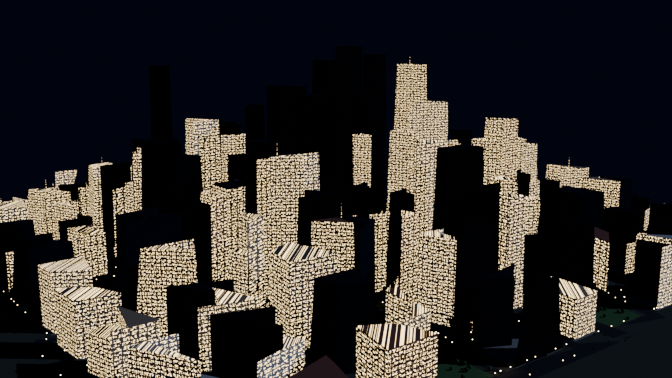
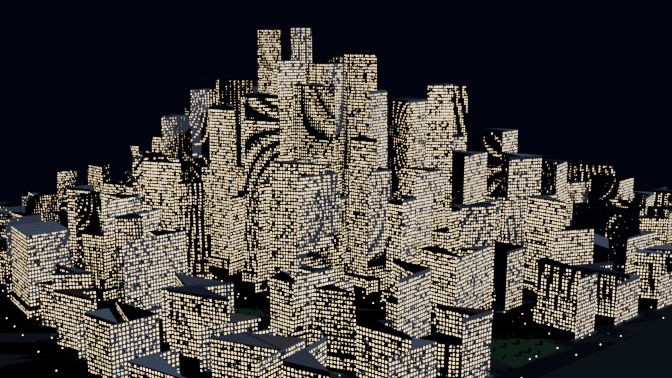
Add geometric windows & balconies, improve cars
- buildings: windows grid on all facades (separate mesh, glass material,
  random lit emission at night), balconies with slabs + railings on
  residential low-rises, windows also on tower podiums
- materials: new Window (night emission via noise), Balcony, Railing mats;
  drop procedural brick window mask (replaced by geometry)
- details: cars get wheels, headlights and taillights (emissive at night)
- config: car_count 120 -> 200

diff --git a/city/buildings.py b/city/buildings.py
@@ -7,6 +7,8 @@ from .config import Config
 from . import materials
 from .roads import SIDEWALK_Z
 
+FLOOR_H = 3.2
+
 
 def _quad_center(q):
     return (sum(p[0] for p in q) / 4.0, sum(p[1] for p in q) / 4.0)
@@ -80,12 +82,13 @@ def height_at(cfg, x, y, rng):
     return max(8.0, min(h, cfg.max_height * 1.35))
 
 
-def _add_tower(bm, quad, height, taper, top_scale, z0, facade_idx, rng):
-    """Extrude a quad footprint with optional taper; return top face center."""
-    verts = [bm.verts.new((x, y, z0)) for x, y in quad]
-    face = bm.faces.new(verts)
+def _add_tower(bm, quad, height, taper, top_scale, z0, facade_idx):
+    """Extrude a quad footprint with optional taper; return top center, base+top verts."""
+    base_verts = [bm.verts.new((x, y, z0)) for x, y in quad]
+    face = bm.faces.new(base_verts)
     result = bmesh.ops.extrude_face_region(bm, geom=[face])
     new_verts = [g for g in result["geom"] if isinstance(g, bmesh.types.BMVert)]
+    new_faces = [g for g in result["geom"] if isinstance(g, bmesh.types.BMFace)]
     bmesh.ops.translate(bm, vec=(0, 0, height), verts=new_verts)
     if taper < 0.999:
         cx = sum(v.co.x for v in new_verts) / len(new_verts)
@@ -93,28 +96,165 @@ def _add_tower(bm, quad, height, taper, top_scale, z0, facade_idx, rng):
         for v in new_verts:
             v.co.x = cx + (v.co.x - cx) * top_scale
             v.co.y = cy + (v.co.y - cy) * top_scale
-        return (cx, cy, z0 + height), new_verts
-    cx = sum(v.co.x for v in new_verts) / len(new_verts)
-    cy = sum(v.co.y for v in new_verts) / len(new_verts)
-    return (cx, cy, z0 + height), new_verts
+    else:
+        cx = sum(v.co.x for v in new_verts) / len(new_verts)
+        cy = sum(v.co.y for v in new_verts) / len(new_verts)
+    for f in new_faces:
+        f.material_index = facade_idx
+    return (cx, cy, z0 + height), base_verts, new_verts
 
 
-def build_building(bm, quad, height, rng, facade_idx, cfg=None):
+def _lerp(a, b, t):
+    return (a[0] + (b[0] - a[0]) * t, a[1] + (b[1] - a[1]) * t)
+
+
+class _Geom:
+    """Plain vertex/face lists for windows and balconies (fast from_pydata)."""
+
+    def __init__(self):
+        self.verts = []
+        self.faces = []
+        self.face_mats = []
+
+    def quad(self, corners, mat=0):
+        base = len(self.verts)
+        self.verts.extend(corners)
+        self.faces.append((base, base + 1, base + 2, base + 3))
+        self.face_mats.append(mat)
+
+    def box(self, bot4, h, mat=0):
+        top4 = [(p[0], p[1], p[2] + h) for p in bot4]
+        base = len(self.verts)
+        self.verts.extend(bot4)
+        self.verts.extend(top4)
+        b = [base + i for i in range(4)]
+        t = [base + 4 + i for i in range(4)]
+        self.faces.append(tuple(t[::-1]))
+        self.faces.append(tuple(b))
+        for i in range(4):
+            self.faces.append((b[i], b[(i + 1) % 4], t[(i + 1) % 4], t[i]))
+        self.face_mats.extend([mat] * 6)
+
+
+def _add_windows_balconies(win, balc, base_pts, top_pts, z0, height, rng,
+                           with_balconies):
+    """Windows grid + balconies on the four side walls of a prism."""
+    n_floors = max(1, int(height / FLOOR_H))
+    for i in range(4):
+        a0 = base_pts[i]
+        b0 = base_pts[(i + 1) % 4]
+        a1 = top_pts[i]
+        b1 = top_pts[(i + 1) % 4]
+        wall_len = ((b0[0] - a0[0]) ** 2 + (b0[1] - a0[1]) ** 2) ** 0.5
+        if wall_len < 2.5:
+            continue
+        cols = max(1, int(wall_len / 2.6))
+        # outward normal at wall base
+        dx, dy = b0[0] - a0[0], b0[1] - a0[1]
+        nx, ny = dy / wall_len, -dx / wall_len
+        cx = (a0[0] + b0[0]) / 2.0
+        cy = (a0[1] + b0[1]) / 2.0
+        if nx * cx + ny * cy < 0:
+            nx, ny = -nx, -ny
+
+        win_w, win_h = 1.4, 1.7
+        for f in range(n_floors):
+            z = z0 + f * FLOOR_H + FLOOR_H * 0.55
+            if z + win_h / 2.0 > z0 + height - 0.3:
+                break
+            t = (z - z0) / height if height > 1e-6 else 0.0
+            left = _lerp(a0, a1, t)
+            right = _lerp(b0, b1, t)
+            wdx, wdy = right[0] - left[0], right[1] - left[1]
+            wlen = (wdx * wdx + wdy * wdy) ** 0.5
+            if wlen < 1e-6:
+                continue
+            ux, uy = wdx / wlen, wdy / wlen
+            for c in range(cols):
+                tt = (c + 0.5) / cols
+                px = left[0] + wdx * tt + nx * 0.06
+                py = left[1] + wdy * tt + ny * 0.06
+                hw = min(win_w, wlen / cols * 0.7) / 2.0
+                hh = win_h / 2.0
+                win.quad([
+                    (px - ux * hw, py - uy * hw, z - hh),
+                    (px + ux * hw, py + uy * hw, z - hh),
+                    (px + ux * hw, py + uy * hw, z + hh),
+                    (px - ux * hw, py - uy * hw, z + hh),
+                ])
+
+        if not with_balconies:
+            continue
+        # balconies: protruding slab + railing on random floors
+        for f in range(2, n_floors):
+            if rng.random() > 0.4:
+                continue
+            z = z0 + f * FLOOR_H
+            if z + 1.2 > z0 + height - 0.3:
+                break
+            t = (z - z0) / height if height > 1e-6 else 0.0
+            left = _lerp(a0, a1, t)
+            right = _lerp(b0, b1, t)
+            wdx, wdy = right[0] - left[0], right[1] - left[1]
+            wlen = (wdx * wdx + wdy * wdy) ** 0.5
+            if wlen < 1e-6:
+                continue
+            ux, uy = wdx / wlen, wdy / wlen
+            bw = min(3.2, wlen * 0.8) / 2.0
+            depth = 1.1
+            mx = left[0] + wdx * 0.5
+            my = left[1] + wdy * 0.5
+            c0 = (mx - ux * bw, my - uy * bw)
+            c1 = (mx + ux * bw, my + uy * bw)
+            # slab
+            balc.box([
+                (c0[0], c0[1], z),
+                (c1[0], c1[1], z),
+                (c1[0] + nx * depth, c1[1] + ny * depth, z),
+                (c0[0] + nx * depth, c0[1] + ny * depth, z),
+            ], 0.15)
+            # railing: 3 quads around outer edge
+            rz0, rz1 = z + 0.15, z + 1.15
+            ro0 = (c0[0] + nx * depth, c0[1] + ny * depth)
+            ro1 = (c1[0] + nx * depth, c1[1] + ny * depth)
+            for p, q in ((c0, ro0), (ro0, ro1), (ro1, c1)):
+                balc.quad([
+                    (p[0], p[1], rz0),
+                    (q[0], q[1], rz0),
+                    (q[0], q[1], rz1),
+                    (p[0], p[1], rz1),
+                ], mat=1)
+
+
+def build_building(bm, win, balc, quad, height, rng, facade_idx,
+                   is_glass=False):
     """One building: optional podium, tapered tower, antenna + windows/balconies."""
     z0 = SIDEWALK_Z
-    faces_before = len(bm.faces)
 
     is_tower = height > 60.0
     if is_tower:
         # podium
         podium_h = rng.uniform(8.0, 14.0)
         podium_quad = _inset_quad(quad, -3.0) or quad
-        _add_tower(bm, podium_quad, podium_h, False, 1.0, z0, facade_idx, rng)
+        _, pod_base, pod_top = _add_tower(bm, podium_quad, podium_h, False, 1.0, z0, facade_idx)
+        _add_windows_balconies(
+            win, balc,
+            [(v.co.x, v.co.y) for v in pod_base],
+            [(v.co.x, v.co.y) for v in pod_top],
+            z0, podium_h, rng, False)
         z0 += podium_h
 
     taper = rng.uniform(0.8, 1.0) if is_tower else 1.0
     top_scale = rng.uniform(0.75, 0.95) if is_tower else 1.0
-    top, _ = _add_tower(bm, quad, height - (z0 - SIDEWALK_Z), taper, top_scale, z0, facade_idx, rng)
+    shaft_h = height - (z0 - SIDEWALK_Z)
+    top, base_verts, top_verts = _add_tower(bm, quad, shaft_h, taper, top_scale, z0, facade_idx)
+
+    with_balconies = (not is_glass) and height < 60.0
+    _add_windows_balconies(
+        win, balc,
+        [(v.co.x, v.co.y) for v in base_verts],
+        [(v.co.x, v.co.y) for v in top_verts],
+        z0, shaft_h, rng, with_balconies)
 
     if is_tower and rng.random() < 0.5:
         # antenna
@@ -123,18 +263,15 @@ def build_building(bm, quad, height, rng, facade_idx, cfg=None):
         ant_h = rng.uniform(8.0, 20.0)
         ring = [bm.verts.new((ax + r * math.cos(a), ay + r * math.sin(a), az))
                 for a in (i * math.pi / 4 for i in range(8))]
-        top_ring = [bm.verts.new((v.co.x * 0.5 + ax * 0.5, v.co.y * 0.5 + ay * 0.5, az + ant_h))
-                    for v in ring]
-        for v in top_ring:
-            v.co.x = ax + (v.co.x - ax) * 0.15
-            v.co.y = ay + (v.co.y - ay) * 0.15
-        bm.faces.new(ring[::-1])
-        bm.faces.new(top_ring)
+        top_ring = [bm.verts.new((ax + r * 0.15 * math.cos(a), ay + r * 0.15 * math.sin(a),
+                                  az + ant_h))
+                    for a in (i * math.pi / 4 for i in range(8))]
+        ant_faces = [bm.faces.new(ring[::-1]), bm.faces.new(top_ring)]
         for i in range(8):
-            bm.faces.new((ring[i], ring[(i + 1) % 8], top_ring[(i + 1) % 8], top_ring[i]))
-
-    for f in bm.faces[faces_before:]:
-        f.material_index = facade_idx
+            ant_faces.append(
+                bm.faces.new((ring[i], ring[(i + 1) % 8], top_ring[(i + 1) % 8], top_ring[i])))
+        for f in ant_faces:
+            f.material_index = facade_idx
 
 
 def pick_facade(cfg, height, glass_count, rng):
@@ -144,12 +281,28 @@ def pick_facade(cfg, height, glass_count, rng):
     return rng.randrange(0, glass_start)
 
 
+def _make_mesh(name, verts, faces, mats, face_mats=None):
+    mesh = bpy.data.meshes.new(name)
+    mesh.from_pydata(verts, [], faces)
+    for mat in mats:
+        mesh.materials.append(mat)
+    if face_mats:
+        for poly, mi in zip(mesh.polygons, face_mats):
+            poly.material_index = mi
+    obj = bpy.data.objects.new(name, mesh)
+    bpy.context.collection.objects.link(obj)
+    return obj
+
+
 def generate(cfg: Config) -> None:
     rng = cfg._rng
     facades = materials.get_facade_materials(cfg)
     glass_count = sum(1 for p in materials.FACADE_PALETTES if p[4])
+    glass_start = len(materials.FACADE_PALETTES) - glass_count
 
     bm = bmesh.new()
+    win = _Geom()
+    balc = _Geom()
     park_quads = []
     for quad in cfg._block_quads:
         if rng.random() < cfg.park_chance:
@@ -166,7 +319,7 @@ def generate(cfg: Config) -> None:
                 continue
             h = height_at(cfg, *_quad_center(inset), rng)
             idx = pick_facade(cfg, h, glass_count, rng)
-            build_building(bm, inset, h, rng, idx, cfg)
+            build_building(bm, win, balc, inset, h, rng, idx, is_glass=idx >= glass_start)
 
     mesh = bpy.data.meshes.new("Buildings")
     bm.to_mesh(mesh)
@@ -175,6 +328,13 @@ def generate(cfg: Config) -> None:
     bm.free()
     obj = bpy.data.objects.new("Buildings", mesh)
     bpy.context.collection.objects.link(obj)
+
+    if win.faces:
+        _make_mesh("Windows", win.verts, win.faces, [materials.window_mat(cfg)])
+    if balc.faces:
+        _make_mesh("Balconies", balc.verts, balc.faces,
+                   [materials.balcony_mat(), materials.railing_mat()],
+                   face_mats=balc.face_mats)
 
     # parks
     if park_quads:

diff --git a/city/details.py b/city/details.py
@@ -43,12 +43,18 @@ def _make_lamp_prototype(cfg):
 
 def _make_car_prototypes(cfg):
     glass = materials.glass_mat()
+    tire = materials.simple_mat("Tire", (0.02, 0.02, 0.02, 1), 0.9)
+    headlight = materials.simple_mat(
+        "Headlight", (0.9, 0.9, 0.85, 1), 0.2,
+        emission=(1.0, 0.95, 0.8, 1), emission_strength=8.0 if cfg.night else 0.0)
+    taillight = materials.simple_mat(
+        "Taillight", (0.8, 0.05, 0.05, 1), 0.3,
+        emission=(1.0, 0.05, 0.05, 1), emission_strength=6.0 if cfg.night else 0.0)
     protos = []
     for i, mat in enumerate(materials.car_materials()):
-        bpy.ops.mesh.primitive_cube_add(size=1, location=(0, 0, 0))
+        bpy.ops.mesh.primitive_cube_add(size=1, location=(0, 0, 0.55))
         body = bpy.context.active_object
         body.scale = (4.4, 1.9, 0.7)
-        body.location = (0, 0, 0.55)
         body.data.materials.append(mat)
 
         bpy.ops.mesh.primitive_cube_add(size=1, location=(-0.3, 0, 1.15))
@@ -56,8 +62,32 @@ def _make_car_prototypes(cfg):
         cabin.scale = (2.2, 1.7, 0.55)
         cabin.data.materials.append(glass)
 
-        cabin.select_set(True)
-        body.select_set(True)
+        parts = [body, cabin]
+        # wheels
+        for wx in (1.4, -1.4):
+            for wy in (0.95, -0.95):
+                bpy.ops.mesh.primitive_cylinder_add(
+                    radius=0.35, depth=0.25,
+                    location=(wx, wy, 0.35),
+                    rotation=(math.pi / 2, 0, 0))
+                wheel = bpy.context.active_object
+                wheel.data.materials.append(tire)
+                parts.append(wheel)
+        # lights
+        for ly in (0.6, -0.6):
+            bpy.ops.mesh.primitive_cube_add(size=1, location=(2.2, ly, 0.6))
+            hl = bpy.context.active_object
+            hl.scale = (0.08, 0.35, 0.15)
+            hl.data.materials.append(headlight)
+            parts.append(hl)
+            bpy.ops.mesh.primitive_cube_add(size=1, location=(-2.2, ly, 0.6))
+            tl = bpy.context.active_object
+            tl.scale = (0.08, 0.35, 0.15)
+            tl.data.materials.append(taillight)
+            parts.append(tl)
+
+        for p in parts:
+            p.select_set(True)
         bpy.context.view_layer.objects.active = body
         bpy.ops.object.join()
         car = bpy.context.active_object

diff --git a/city/materials.py b/city/materials.py
@@ -98,8 +98,43 @@ def get_facade_materials(cfg):
     mats = []
     for name, color, rough, metal, glass in FACADE_PALETTES:
         mats.append(_facade_mat(name, color, rough, metal, glass,
-                                night=cfg.night, windows=not glass))
+                                night=cfg.night, windows=False))
     return mats
+
+
+def window_mat(cfg):
+    """Glass panes for geometric windows; random ones lit at night."""
+    mat = bpy.data.materials.new("Window")
+    mat.use_nodes = True
+    nt = mat.node_tree
+    bsdf = _principled(mat)
+    bsdf.inputs["Base Color"].default_value = (0.04, 0.07, 0.1, 1.0)
+    bsdf.inputs["Roughness"].default_value = 0.08
+    bsdf.inputs["Metallic"].default_value = 0.9
+    if cfg.night:
+        geo = nt.nodes.new("ShaderNodeNewGeometry")
+        noise = nt.nodes.new("ShaderNodeTexNoise")
+        noise.inputs["Scale"].default_value = 0.35
+        nt.links.new(geo.outputs["Position"], noise.inputs["Vector"])
+        lit = nt.nodes.new("ShaderNodeMath")
+        lit.operation = "GREATER_THAN"
+        lit.inputs[1].default_value = 0.45
+        nt.links.new(noise.outputs["Fac"], lit.inputs[0])
+        strength = nt.nodes.new("ShaderNodeMath")
+        strength.operation = "MULTIPLY"
+        strength.inputs[1].default_value = 4.0
+        nt.links.new(lit.outputs["Value"], strength.inputs[0])
+        bsdf.inputs["Emission Color"].default_value = (1.0, 0.8, 0.45, 1.0)
+        nt.links.new(strength.outputs["Value"], bsdf.inputs["Emission Strength"])
+    return mat
+
+
+def balcony_mat():
+    return simple_mat("Balcony", (0.25, 0.24, 0.23, 1.0), 0.85)
+
+
+def railing_mat():
+    return simple_mat("Railing", (0.05, 0.05, 0.06, 1.0), 0.5, 0.8)
 
 
 def lamp_material(cfg):

diff --git a/city/config.py b/city/config.py
@@ -34,7 +34,7 @@ class Config:
 
     # Details
     lamp_every: float = 35.0
-    car_count: int = 120
+    car_count: int = 200
     tree_count: int = 400
 
     # Render
